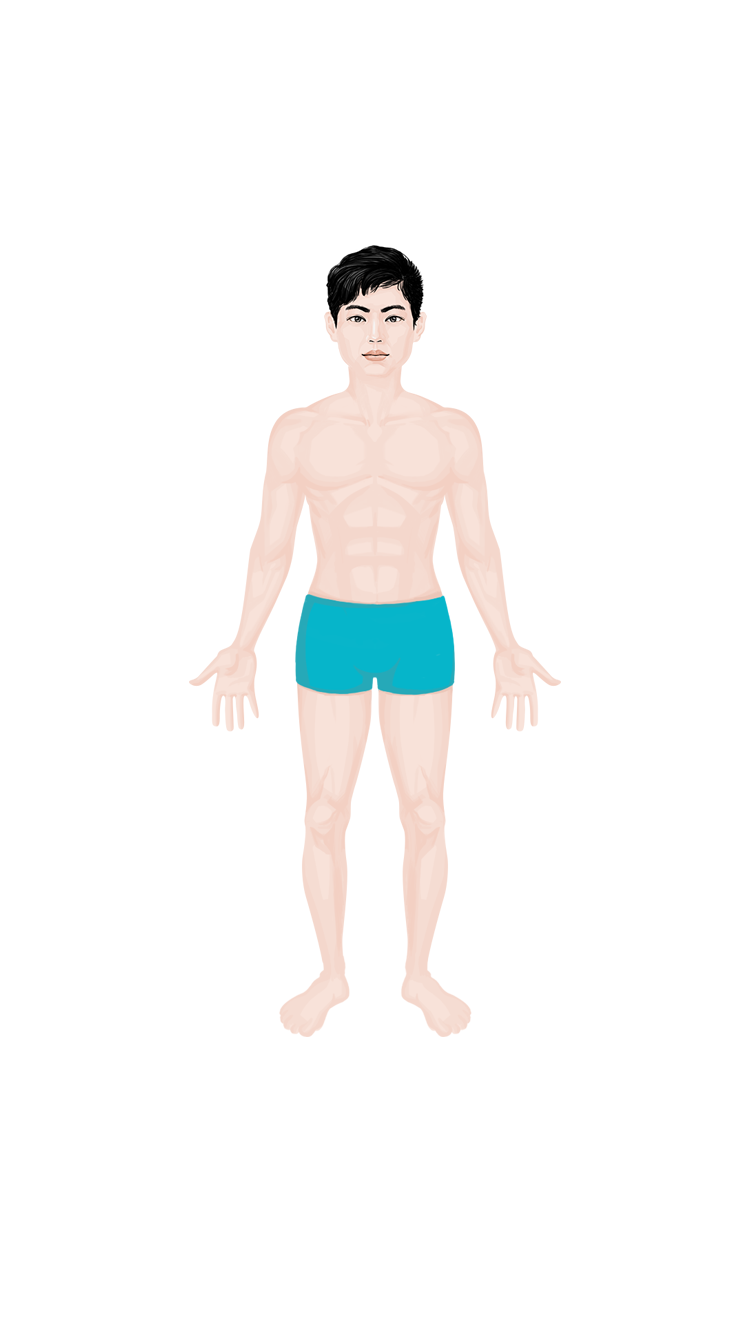
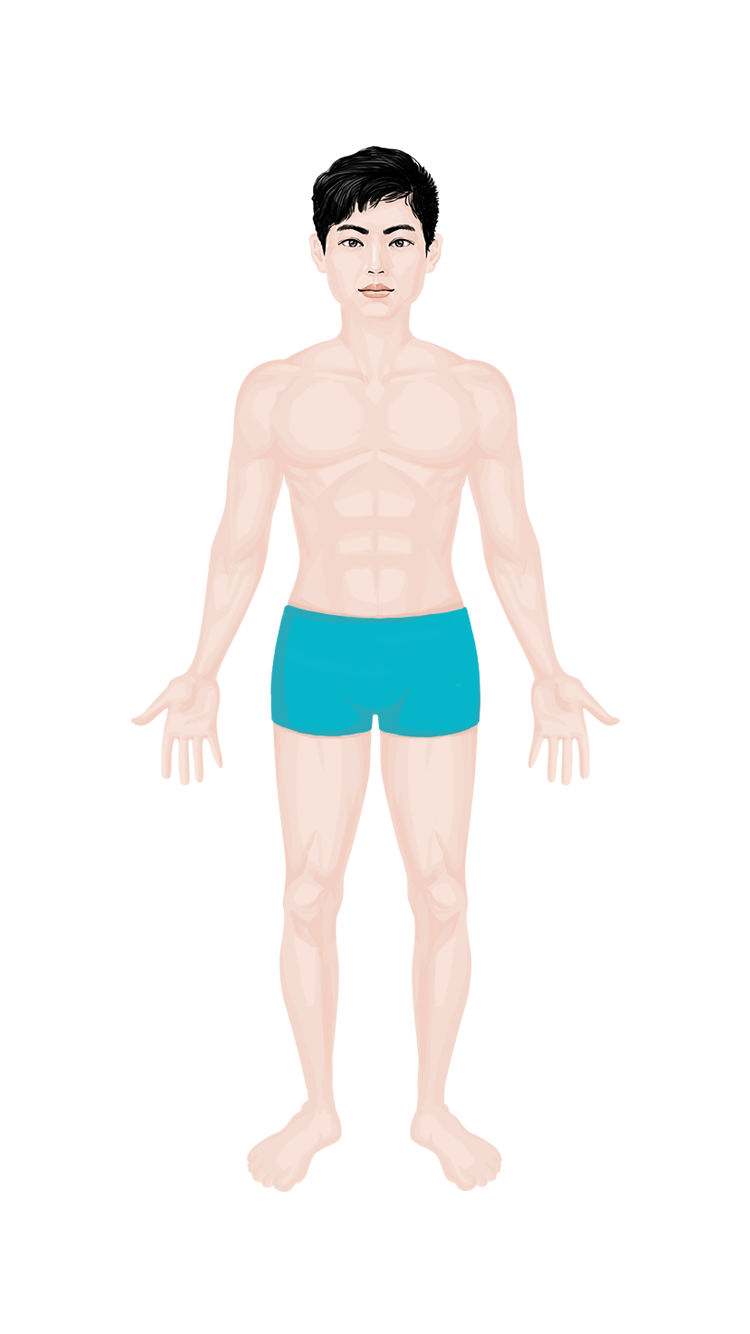
update refactor 男性正面数据

Changed region(s): [[0.184, 0.0922, 0.828, 0.8913]]

diff --git a/app/src/main/java/com/chenyu/monster/customviewtest/activity/BodyClickActivity.java b/app/src/main/java/com/chenyu/monster/customviewtest/activity/BodyClickActivity.java
@@ -36,8 +36,8 @@ public class BodyClickActivity extends AppCompatActivity implements BodyClickVie
         InputStream imgInputStream = null;
         InputStream fileInputStream = null;
         try {
-            imgInputStream = assetManager.open("male_head_body.png");
-            fileInputStream = assetManager.open("male_head.xml");
+            imgInputStream = assetManager.open("male_front_body.png");
+            fileInputStream = assetManager.open("male_front.xml");
             mHotView.setImageBitmap(fileInputStream, imgInputStream, BodyClickView.FIT_XY);
             mHotView.setOnClickListener(this);
         } catch (Exception e) {
